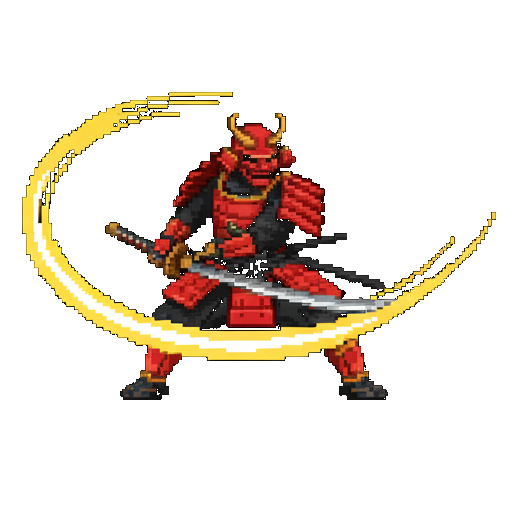
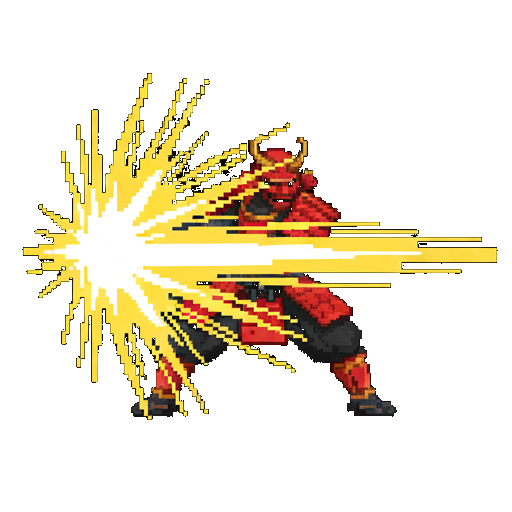
feat: enhance AI combat animations and debug HUD
- Implement multi-frame attack sequence for AI ('AI_ATTACK_FRAMES').
- Update 'handle_slash_cue', 'handle_clash_cue', and 'maybe_ai_block' to use AI attack sequences.
- Refine AI combat constants: range (140.0), cooldown (1.0s), and separation (20.0).
- Enhance Animation Playground HUD with AI state (HP, Frame Name, Dying/Respawn status).
- Fix hit registration to ignore AI while in 'DeathRespawn' stage.
- Export 'AiHealth', 'DeathRespawn', and 'RespawnFadeIn' for HUD access.

Changed region(s): [[0.0312, 0.125, 0.9688, 0.8438], [0.0938, 0.6562, 0.125, 0.6875]]

diff --git a/bevy_iaido/src/visuals.rs b/bevy_iaido/src/visuals.rs
@@ -18,10 +18,14 @@ pub struct VisualsPlugin;
 const HUMAN_FRAMES_DIR: &str = "atlas/white_samurai";
 const AI_FRAMES_DIR: &str = "atlas/red_samurai";
 const AI_IDLE_FRAME: &str = "red_samurai__tile_3.png";
-const AI_ATTACK_FRAME: &str = "red_samurai__tile_0.png";
+const AI_ATTACK_FRAMES: [&str; 3] = [
+    "red_samurai__tile_0.png",
+    "red_samurai__tile_1.png",
+    "red_samurai__tile_2.png",
+];
 const AI_BLOCK_CHANCE: f32 = 0.0;
-const AI_ATTACK_RANGE: f32 = 200.0;
-const AI_ATTACK_COOLDOWN: f32 = 0.7;
+const AI_ATTACK_RANGE: f32 = 140.0;
+const AI_ATTACK_COOLDOWN: f32 = 1.0;
 const AI_DEATH_FRAMES: [&str; 4] = ["red__tile_0.png", "red__tile_1.png", "red__tile_2.png", "red__tile_3.png"];
 const RESPAWN_FLASH_COLOR: Color = Color::srgb(0.9, 0.95, 1.0);
 const RESPAWN_FLASH_SECONDS: f32 = 0.2;
@@ -31,7 +35,7 @@ const RESPAWN_FADE_SECONDS: f32 = 0.25;
 const HIT_RANGE: f32 = 320.0;
 const BLOCK_WINDOW_MS: u64 = 150;
 const STAGGER_DISTANCE: f32 = 80.0;
-const MIN_SEPARATION: f32 = 5.0;
+const MIN_SEPARATION: f32 = 20.0;
 const SEQUENCE_FRAME_TIME: f32 = 0.2;
 const DASH_DISTANCE: f32 = 220.0;
 const RUN_FRAME_TIME: f32 = 0.12;
@@ -429,14 +433,14 @@ struct RespawnFlash {
 }
 
 #[derive(Component)]
-struct DeathRespawn {
+pub(crate) struct DeathRespawn {
     stage: DeathStage,
     timer: Timer,
     respawn_x: f32,
 }
 
 #[derive(Component)]
-struct RespawnFadeIn {
+pub(crate) struct RespawnFadeIn {
     timer: Timer,
 }
 
@@ -490,8 +494,8 @@ struct BlockState {
 }
 
 #[derive(Resource)]
-struct AiHealth {
-    hits_remaining: u8,
+pub(crate) struct AiHealth {
+    pub(crate) hits_remaining: u8,
 }
 
 #[derive(Resource, Default)]
@@ -730,17 +734,33 @@ fn handle_slash_cue(
 
                 let actor_frames = frames_for_actor(character.actor, &frames);
                 if matches!(character.actor, Actor::Ai) {
-                    frame_idx.index = ai_attack_index(&frames);
+                    if let Some(seq) = ai_attack_sequence(&frames) {
+                        let total = SEQUENCE_FRAME_TIME * (seq.len() as f32);
+                        play_sequence_with_return_index(
+                            Actor::Ai,
+                            seq,
+                            ai_idle_index(&frames),
+                            &frames,
+                            &mut char_q,
+                            &mut commands,
+                        );
+                        commands.entity(entity).remove::<ResetFrame>();
+                        commands.entity(entity).insert(ResetFrame {
+                            timer: Timer::from_seconds(total, TimerMode::Once),
+                            return_index: ai_idle_index(&frames),
+                        });
+                    } else {
+                        frame_idx.index = ai_idle_index(&frames);
+                        apply_frame(actor_frames, &mut frame_idx, &mut texture);
+                    }
                 } else {
                     frame_idx.index = controller_state.controller.slash_index;
+                    apply_frame(actor_frames, &mut frame_idx, &mut texture);
+                    commands.entity(entity).insert(ResetFrame {
+                        timer: Timer::from_seconds(0.5, TimerMode::Once),
+                        return_index: 0,
+                    });
                 }
-                apply_frame(actor_frames, &mut frame_idx, &mut texture);
-                commands.entity(entity).insert(ResetFrame {
-                    timer: Timer::from_seconds(0.5, TimerMode::Once),
-                    return_index: if matches!(character.actor, Actor::Ai) {
-                        ai_idle_index(&frames)
-                    } else { 0 },
-                });
             }
         }
     }
@@ -776,18 +796,37 @@ fn handle_clash_cue(
         }
         for (entity, character, mut frame_idx, mut texture) in char_q.iter_mut() {
             let actor_frames = frames_for_actor(character.actor, &frames);
-            frame_idx.index = if matches!(character.actor, Actor::Ai) {
-                ai_attack_index(&frames)
+            if matches!(character.actor, Actor::Ai) {
+                if let Some(seq) = ai_attack_sequence(&frames) {
+                    let total = SEQUENCE_FRAME_TIME * (seq.len() as f32);
+                    play_sequence_with_return_index(
+                        Actor::Ai,
+                        seq,
+                        ai_idle_index(&frames),
+                        &frames,
+                        &mut char_q,
+                        &mut commands,
+                    );
+                    commands.entity(entity).insert(ResetFrame {
+                        timer: Timer::from_seconds(total, TimerMode::Once),
+                        return_index: ai_idle_index(&frames),
+                    });
+                } else {
+                    frame_idx.index = ai_idle_index(&frames);
+                    apply_frame(actor_frames, &mut frame_idx, &mut texture);
+                    commands.entity(entity).insert(ResetFrame {
+                        timer: Timer::from_seconds(0.2, TimerMode::Once),
+                        return_index: ai_idle_index(&frames),
+                    });
+                }
             } else {
-                controller_state.controller.clash_index
-            };
-            apply_frame(actor_frames, &mut frame_idx, &mut texture);
-            commands.entity(entity).insert(ResetFrame {
-                timer: Timer::from_seconds(0.2, TimerMode::Once),
-                return_index: if matches!(character.actor, Actor::Ai) {
-                    ai_idle_index(&frames)
-                } else { 0 },
-            });
+                frame_idx.index = controller_state.controller.clash_index;
+                apply_frame(actor_frames, &mut frame_idx, &mut texture);
+                commands.entity(entity).insert(ResetFrame {
+                    timer: Timer::from_seconds(0.2, TimerMode::Once),
+                    return_index: 0,
+                });
+            }
         }
         commands.spawn((
             SpriteBundle {
@@ -1093,8 +1132,8 @@ fn ai_idle_index(frames: &FrameLibrary) -> usize {
     frames.ai.index_for_name(AI_IDLE_FRAME).unwrap_or(0)
 }
 
-fn ai_attack_index(frames: &FrameLibrary) -> usize {
-    frames.ai.index_for_name(AI_ATTACK_FRAME).unwrap_or(0)
+fn ai_attack_sequence(frames: &FrameLibrary) -> Option<Vec<usize>> {
+    frames.ai.sequence_indices(&AI_ATTACK_FRAMES)
 }
 
 #[derive(Component)]
@@ -1344,7 +1383,7 @@ fn handle_hit_resolution(
     mut ai_health: ResMut<AiHealth>,
     mut q: ParamSet<(
         Query<(&Character, &Transform)>,
-        Query<(Entity, &Character, &mut Transform, &mut OriginalTransform, &mut Sprite)>,
+        Query<(Entity, &Character, &mut Transform, &mut OriginalTransform, &mut Sprite, Option<&DeathRespawn>)>,
     )>,
     mut commands: Commands,
 ) {
@@ -1378,8 +1417,11 @@ fn handle_hit_resolution(
         if now_ms.saturating_sub(last_block) <= BLOCK_WINDOW_MS {
             continue;
         }
-        for (entity, character, mut transform, mut original, mut sprite) in q.p1().iter_mut() {
+        for (entity, character, mut transform, mut original, mut sprite, death) in q.p1().iter_mut() {
             if character.actor == target {
+                if death.is_some() {
+                    continue;
+                }
                 if matches!(target, Actor::Ai) {
                     if ai_health.hits_remaining > 0 {
                         ai_health.hits_remaining = ai_health.hits_remaining.saturating_sub(1);
@@ -1519,15 +1561,16 @@ fn maybe_ai_block(
         return;
     }
     block_state.ai_last_ms = (time.elapsed_seconds_f64() * 1000.0) as u64;
-    play_frame_with_return_index(
-        Actor::Ai,
-        ai_attack_index(frames),
-        0.25,
-        ai_idle_index(frames),
-        frames,
-        char_q,
-        commands,
-    );
+    if let Some(seq) = ai_attack_sequence(frames) {
+        play_sequence_with_return_index(
+            Actor::Ai,
+            seq,
+            ai_idle_index(frames),
+            frames,
+            char_q,
+            commands,
+        );
+    }
 }
 
 fn stagger_actor(

diff --git a/bevy_iaido/src/hud.rs b/bevy_iaido/src/hud.rs
@@ -7,7 +7,7 @@ use std::time::Duration;
 use crate::combat::correct_direction_for;
 use crate::plugin::{DuelRuntime, GoCue, DebugState, AnimationEditMode};
 use crate::types::{DuelPhase, MatchState, Outcome, Actor};
-use crate::visuals::{Character, CharacterControllerState, FrameIndex, FrameLibrary};
+use crate::visuals::{AiHealth, Character, CharacterControllerState, DeathRespawn, FrameIndex, FrameLibrary, RespawnFadeIn};
 
 pub fn systems() -> impl Plugin {
     HudPlugin
@@ -325,10 +325,11 @@ fn update_debug_text(
     mut query: Query<(&mut Text, &mut Visibility), With<DebugText>>,
     rt: Res<DuelRuntime>,
     debug_state: Res<DebugState>,
-    char_q: Query<(&Character, &FrameIndex)>,
+    char_q: Query<(&Character, &FrameIndex, Option<&DeathRespawn>, Option<&RespawnFadeIn>)>,
     controller_state: Res<CharacterControllerState>,
     frames: Res<FrameLibrary>,
     edit_mode: Res<AnimationEditMode>,
+    ai_health: Res<AiHealth>,
 ) {
     if let Ok((mut text, mut vis)) = query.get_single_mut() {
         match *debug_state {
@@ -338,16 +339,33 @@ fn update_debug_text(
             }
             DebugState::Animation => {
                 *vis = Visibility::Visible;
-                let mut idx = 0;
-                for (c, frame_idx) in char_q.iter() {
-                    if matches!(c.actor, Actor::Human) { idx = frame_idx.index; }
+                let mut human_idx = 0;
+                let mut ai_idx = None;
+                let mut ai_state = "Alive";
+                for (c, frame_idx, death, fade) in char_q.iter() {
+                    if matches!(c.actor, Actor::Human) {
+                        human_idx = frame_idx.index;
+                    }
+                    if matches!(c.actor, Actor::Ai) {
+                        ai_idx = Some(frame_idx.index);
+                        if death.is_some() {
+                            ai_state = "Dying";
+                        } else if fade.is_some() {
+                            ai_state = "Respawn";
+                        }
+                    }
                 }
-                let name = frames.human.name_for_index(idx).unwrap_or("unknown");
+                let human_name = frames.human.name_for_index(human_idx).unwrap_or("unknown");
+                let ai_name = ai_idx.and_then(|idx| frames.ai.name_for_index(idx)).unwrap_or("missing");
                 text.sections[0].value = format!(
-                    "ANIMATION PLAYGROUND\nFolder: {}\nIndex: {} ({})\nEdit: {}\nSlash: {}\nClash: {}\n[Left/Right] Cycle Frame (Edit Mode)\n[Space] Set Slash + Play\n[Enter] Set Clash + Play\n[Z] Up Attack: seq_1 press / seq_2 release\n[X] Extended: seq_1 press / seq_2+seq_3 release\n[C] Block: tap = frame1, hold = frame1+frame2\n[S] Duel: press=duel, release=fast, double=spin\n[D] Toggle Edit Mode",
+                    "ANIMATION PLAYGROUND\nFolder: {}\nHuman: {} ({})\nAI: {} ({})\nAI State: {} | HP: {}\nEdit: {}\nSlash: {}\nClash: {}\n[Left/Right] Cycle Frame (Edit Mode)\n[Space] Set Slash + Play\n[Enter] Set Clash + Play\n[Z] Up Attack: seq_1 press / seq_2 release\n[X] Extended: seq_1 press / seq_2+seq_3 release\n[C] Block: tap = frame1, hold = frame1+frame2\n[S] Duel: press=duel, release=fast, double=spin\n[D] Toggle Edit Mode\n[P] Save controller",
                     controller_state.controller_name,
-                    idx,
-                    name,
+                    human_idx,
+                    human_name,
+                    ai_idx.unwrap_or(0),
+                    ai_name,
+                    ai_state,
+                    ai_health.hits_remaining,
                     if edit_mode.0 { "ON" } else { "OFF" },
                     controller_state.controller.slash_index,
                     controller_state.controller.clash_index,
